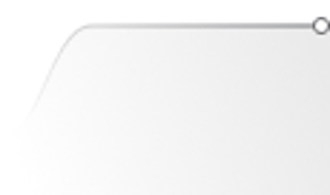
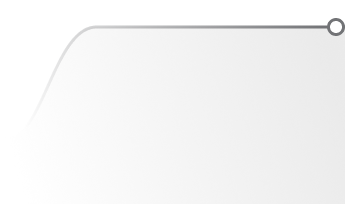
fix arhive card right side

Changed region(s): [[0.3939, 0.0615, 1.0, 0.1846]]

diff --git a/src/components/LineUpDownChartCard/index.tsx b/src/components/LineUpDownChartCard/index.tsx
@@ -156,21 +156,15 @@ function Sparkline({
       : DEFAULT_NEUTRAL_IMG);
 
   return (
-    <View style={styles.sparkWrap}>
+    <View
+      style={[
+        styles.sparkWrap,
+        trend === "up" && styles.sparkWrapUp,
+        trend === "same" && styles.sparkWrapNeutral,
+      ]}
+    >
       <Image source={src} style={styles.chartImg} resizeMode="cover" />
-      <View
-        style={[
-          styles.sparkDot,
-          {
-            backgroundColor:
-              trend === "up"
-                ? "#10A44A"
-                : trend === "down"
-                ? "#DC3545"
-                : "#9CA3AF", // серый цвет для нейтрального
-          },
-        ]}
-      />
+      <View />
     </View>
   );
 }
@@ -238,15 +232,21 @@ const makeStyles = (colors: any) =>
       width: "100%",
       height: "100%",
     },
-    sparkDot: {
-      position: "absolute",
-      right: 6,
-      top: 6,
-      width: 8,
-      height: 8,
-      borderRadius: 4,
-    },
-
     moreBtn: { alignItems: "center", paddingVertical: 16 },
     moreText: { color: colors.subtext, fontSize: 14, fontWeight: "700" },
+    sparkWrapNeutral: {
+      width: 150,
+      height: 85,
+      borderRadius: 12,
+      overflow: "hidden",
+      justifyContent: "center",
+    },
+    sparkWrapUp: {
+      width: 160,
+      height: 94,
+      overflow: "hidden",
+      justifyContent: "center",
+      borderEndEndRadius : 12,
+      borderStartEndRadius : 0,
+    },
   });
